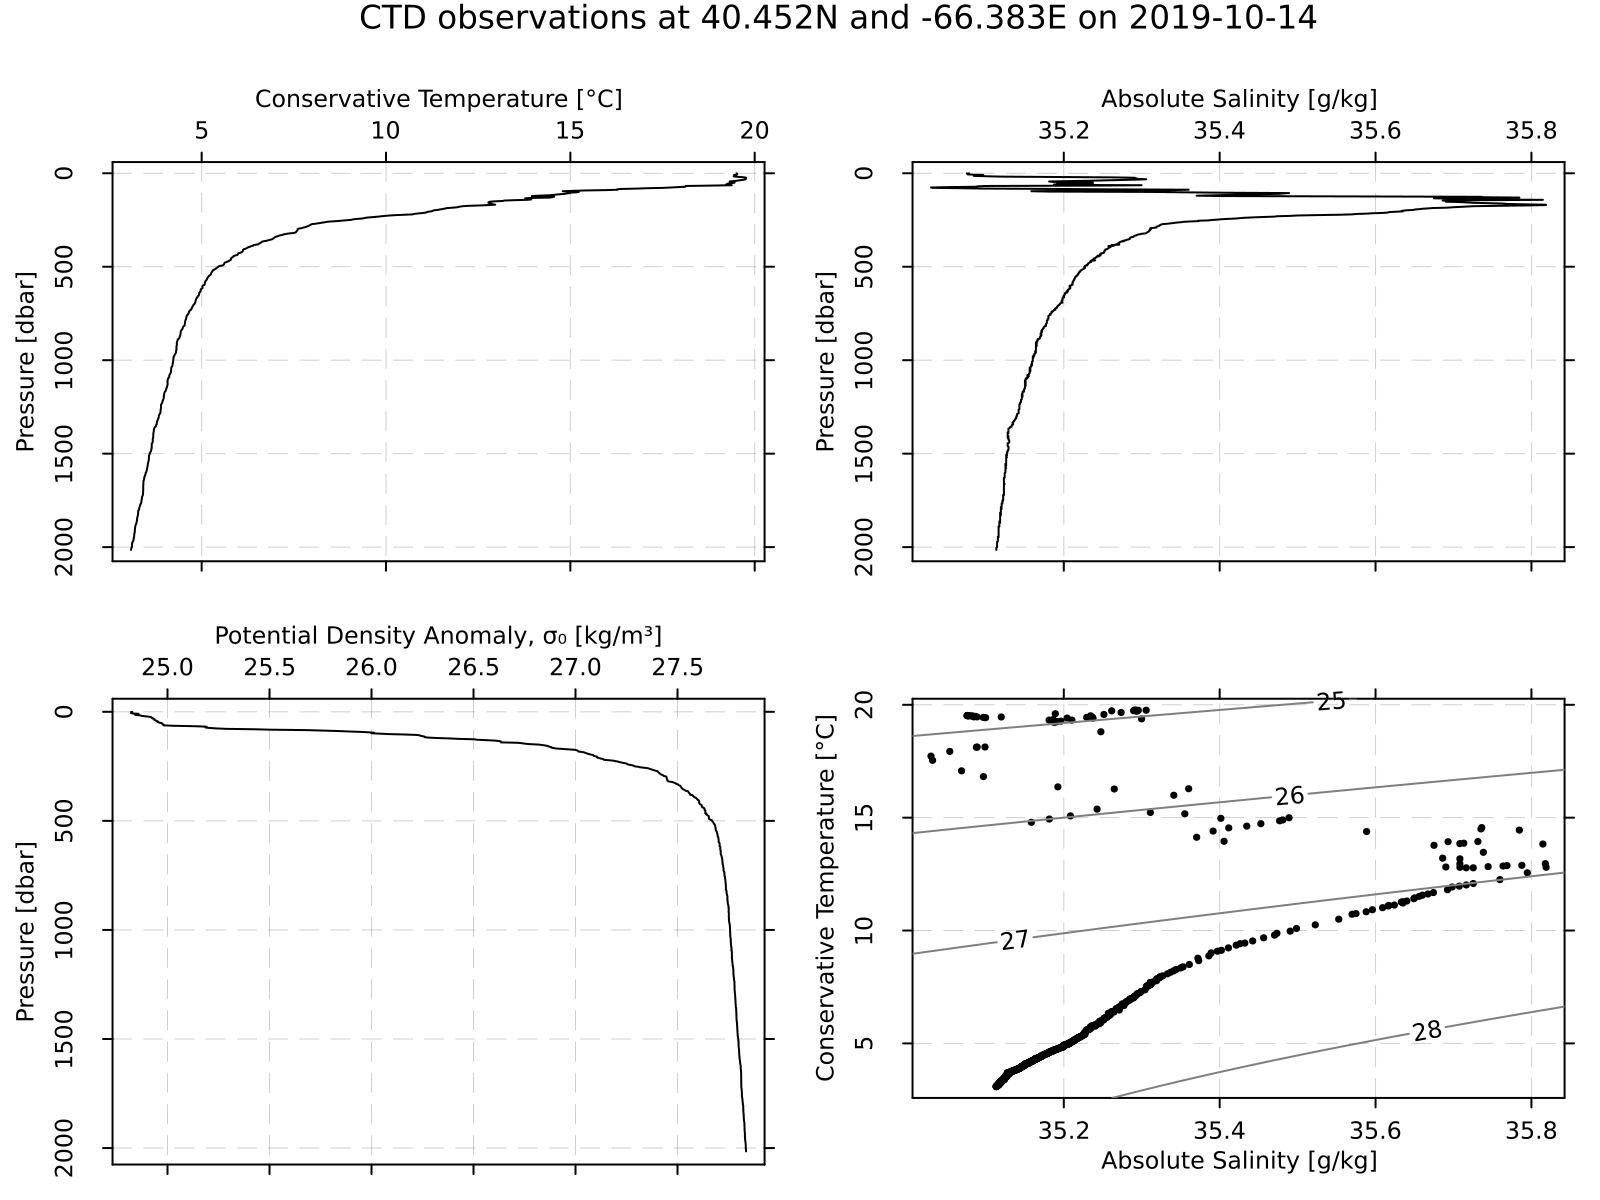
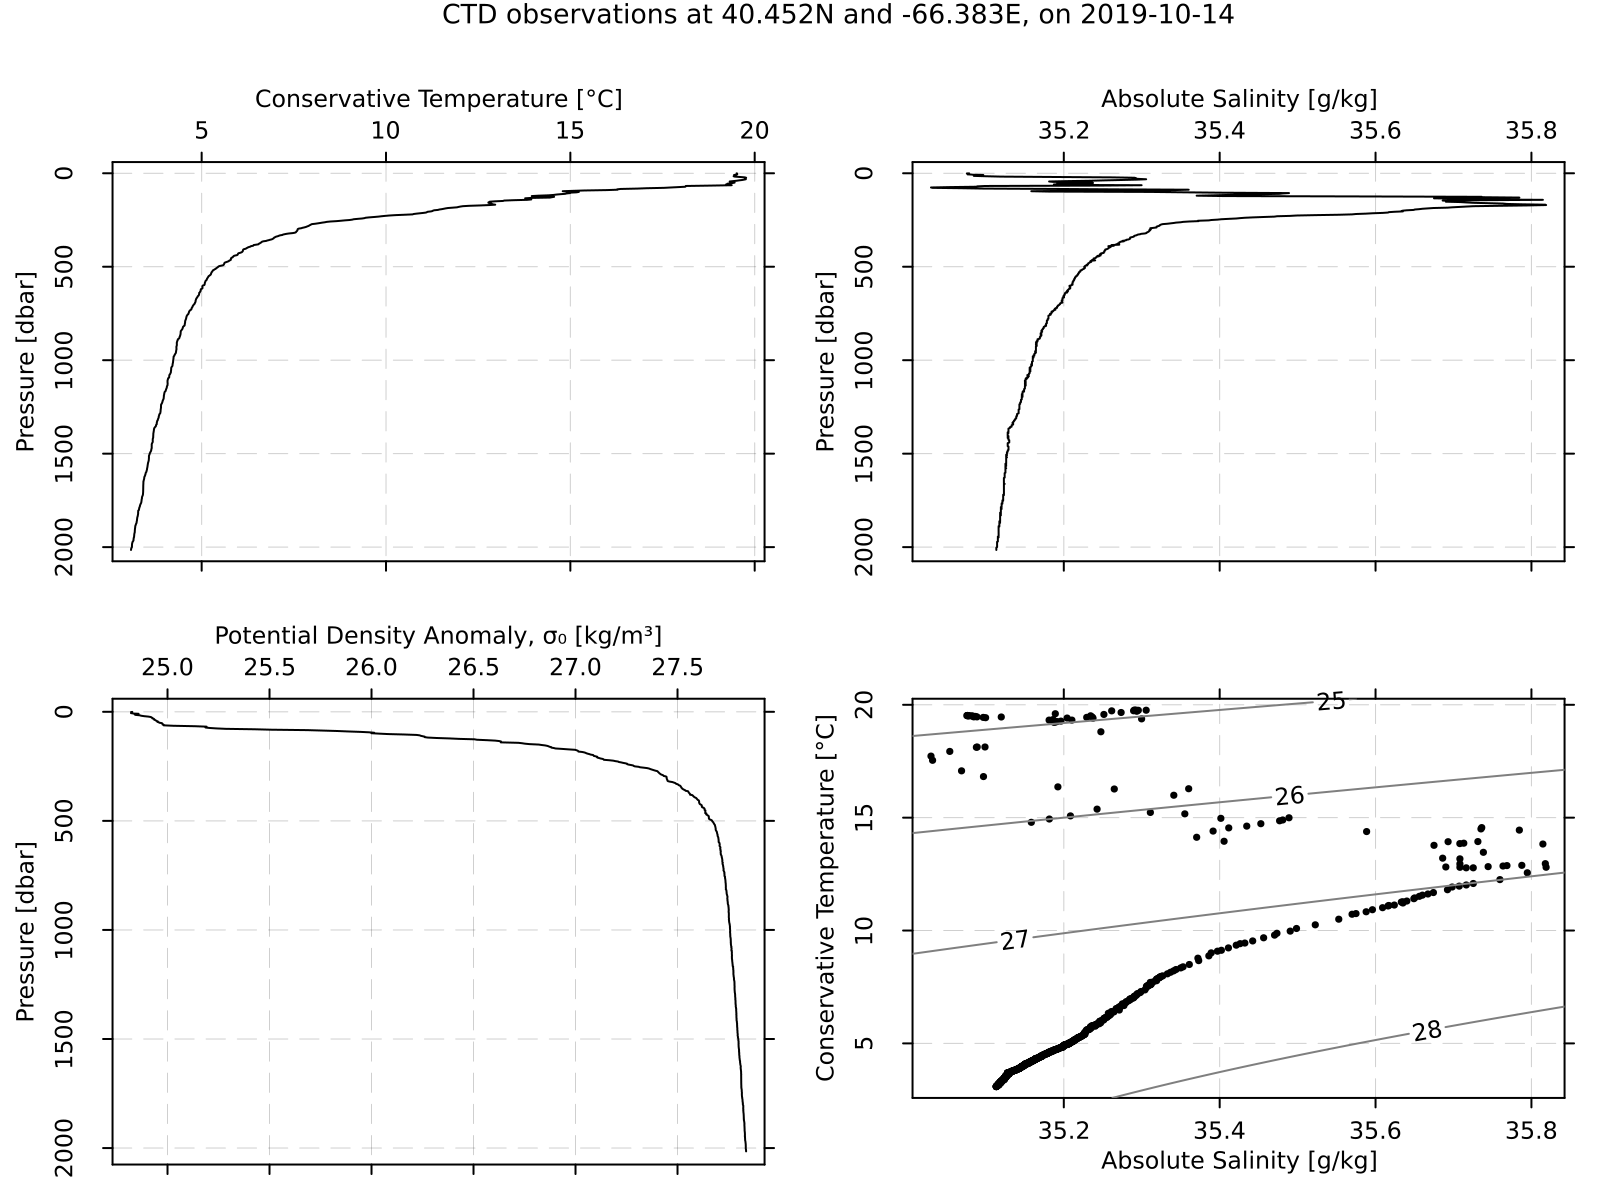
read_argo() returns an Argo object (issue #63)

Changed region(s): [[0.2188, 0.0, 0.8438, 0.0308]]

diff --git a/docs/src/examples.md b/docs/src/examples.md
@@ -1,6 +1,6 @@
 # Examples
 
-## Acoustic-Doppler Profile
+## Acoustic-Doppler Profiler Data
 
 A built-in file (sub-sampled to just one sample per hour, and only a single
 day) is provided with the package. Below, you can see how to plot (1) images of
@@ -37,7 +37,7 @@ plot!([-1; 1], [-a; a], color=:red, label=false, dpi=150)
 ![Acoustic-Doppler Profiler plot](adp_rdi_heatmap.png)
 ![Acoustic-Doppler Profiler plot](adp_rdi_uv.png)
 
-## Echosounder heatmap
+## Echosounder Data
 
 This uses a private data file acquired using a Biosonics scientific echosounder.
 
@@ -52,7 +52,7 @@ end
 ```
 ![Echosounder plot](echosounder.png)
 
-## Satellite SST
+## Satellite Data
 
 The AMSR satellite provides several data streams, including sea-surface
 temperature, which may be plotted as follows.
@@ -69,7 +69,7 @@ plot_amsr(a, xlims=(290.0, 360.0), ylims=(20.0, 60.0), color=:turbo,
 
 ![AMSR-derived sea-surface temperature](amsr.png)
 
-## Topography
+## Topographic Data
 
 The following downloads topographic data for a domain including southern
 Nova Scotia, and plots in three plot styles.
@@ -87,7 +87,7 @@ plot(p1, p2, p3, layout=(1, 3), size=(800, 200), dpi=300)
 
 ![Topography diagram](topography.png)
 
-## CTD hydrography
+## CTD Data
 
 The following shows how to read a built-in CTD file, and plot some hydrographic
 diagrams.
@@ -111,7 +111,35 @@ plot(p1, p2, p3, p4, layout=(2, 2), size=(800, 600), margin=0.25cm,
 
 ![CTD diagram](ctd_diagram.png)
 
-## Argo search
+## Argo Data
+
+### Argo Profile
+
+The following shows how to read an Argo NetCDF file, convert to a Ctd object, and then make a summary plot.
+
+```julia
+# Read and plot a built-in Argo file
+using OceanAnalysis, Dates, Measures, Plots, Printf
+filename = joinpath(dirname(dirname(pathof(OceanAnalysis))), "data",
+    "D4902911_095.nc")
+argo = read_argo(filename)
+ctd = as_ctd(argo)
+p1 = plot_profile(ctd, which="CT");
+p2 = plot_profile(ctd, which="SA");
+p3 = plot_profile(ctd, which="sigma0");
+p4 = plot_TS(ctd);
+title = @sprintf("CTD observations at %.3fN and %.3fE, on %s",
+    ctd.metadata["latitude"], ctd.metadata["longitude"],
+    Dates.format(ctd.metadata["time"], "yyyy-mm-dd"))
+plot(p1, p2, p3, p4, layout=(2, 2), size=(800, 600), margin=0.25cm,
+    dpi=200, plot_title=title, plot_titlefontsize=9)
+#savefig("argo_profile.png")
+```
+
+![Argo profile](argo_profile.png)
+
+
+### Argo Search
 
 The following shows how to map Argo profile locations made within 200 km of
 Sable Island, during the past year.
@@ -151,7 +179,7 @@ scale_bar(100, :right, :top)
 
 ![Argo search results](argo_search.png)
 
-## Argo trajectory
+### Argo Trajectory
 
 The following shows how to display a trace of the positions of a single Argo
 float.
@@ -187,7 +215,7 @@ scale_bar(500, :right, :top)
 
 ![Argo trajectory](argo_trajectory.png)
 
-## Oceanographic section
+## Oceanographic Section Data
 
 The following code downloads data from a section survey in the North Atlantic
 ocean. (See [https://cchdo.ucsd.edu](https://cchdo.ucsd.edu) for paths to other

diff --git a/docs/src/changelog.md b/docs/src/changelog.md
@@ -8,10 +8,11 @@ Release notes:
 
 - none
 
-- BREAKING: none
+- BREAKING: [`read_argo`](@ref) returns an Argo object, so a call to [`as_ctd`](@ref) is required before using e.g. [`plot_TS`](@ref).
 
 ### Added
 
+- [`as_ctd`](@ref) can convert Argo objects to Ctd objects
 - [`as_section`](@ref) for assembling 'ctd' data into a section.
 - [`beam_to_xyz`](@ref) for converting RDI acoustic-Doppler data from beam coordinates to xyz coordinates.
 - [`get_section`](@ref) for downloading oceanographic section data.
